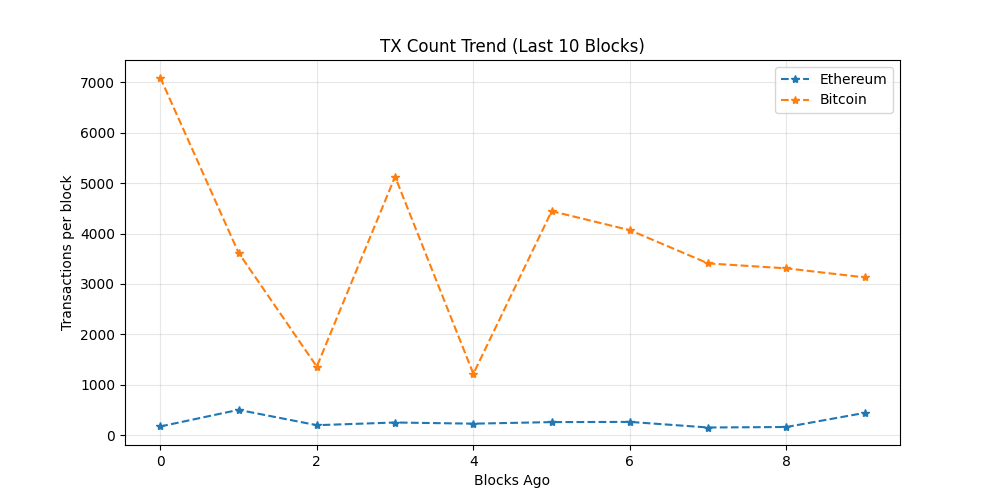
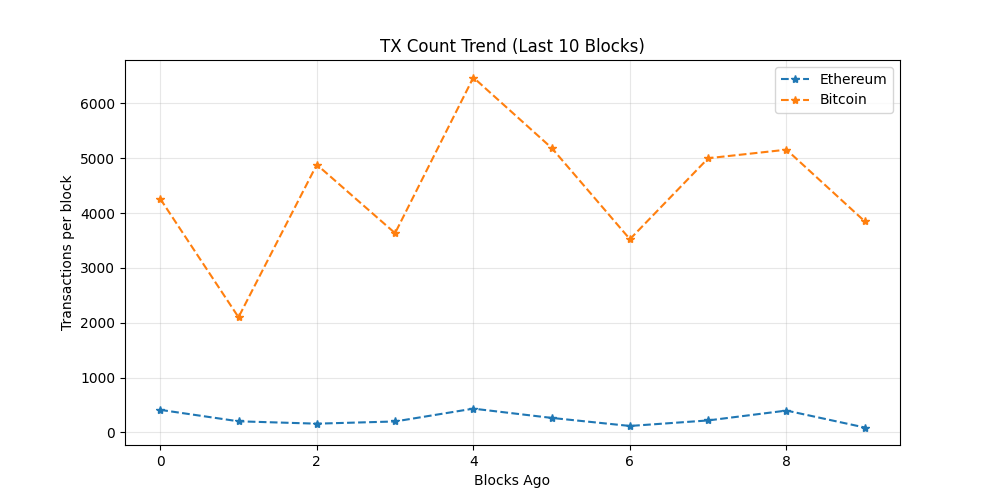
chore: update on-chain dashboard

diff --git a/README.md b/README.md
@@ -19,7 +19,7 @@ The README itself acts as the dashboard and is regenerated automatically on a 6 
 demonstrating a production-style, infrastructure-focused observability workflow rather
 than a traditional UI-driven approach.
 
-_Last updated: 2026-05-17 13:56 UTC_
+_Last updated: 2026-05-17 19:35 UTC_
 
 ## API Usage (GetBlock.io)
 - Calls used: **24**
@@ -27,8 +27,8 @@ _Last updated: 2026-05-17 13:56 UTC_
 ## Network Metrics
 | Chain | Block Height | TX Count | TPS (10 blk avg) | Block Util | Avg Fee |
 |------|-------------|----------|------------------|------------|---------|
-| Ethereum | 25115344 | 445 | 37.08 | 50.37% | 0.3 Gwei |
-| Bitcoin | 949805 | 3131 | 5.65 | 99.8% | N/A |
+| Ethereum | 25117035 | 88 | 7.33 | 24.55% | 0.1 Gwei |
+| Bitcoin | 949849 | 3849 | 4.47 | 99.88% | N/A |
 
 ## Visuals
 ### Transactions Trend
@@ -43,11 +43,11 @@ _Last updated: 2026-05-17 13:56 UTC_
 ## Whale Alerts (latest block)
 - Transaction hashes are truncated for readability.
 - Full hashes are available in `dashboards/metrics.json`
-- Bitcoin | 228.41 BTC | `5ba69ff6e53a…`
-- Bitcoin | 315.87 BTC | `f99449da1c6b…`
-- Bitcoin | 512.91 BTC | `1fa762b69d2d…`
-- Bitcoin | 107.92 BTC | `b55b6fe600bd…`
-- Bitcoin | 161.29 BTC | `a7e4b40555f6…`
+- Bitcoin | 139.01 BTC | `ca534a0e96c1…`
+- Bitcoin | 223.09 BTC | `066619fb1814…`
+- Bitcoin | 108.24 BTC | `fc098d0c9d25…`
+- Bitcoin | 2358.84 BTC | `6953f8740d6e…`
+- Bitcoin | 198.74 BTC | `b920bf695d30…`
 
 ## Run locally
 
